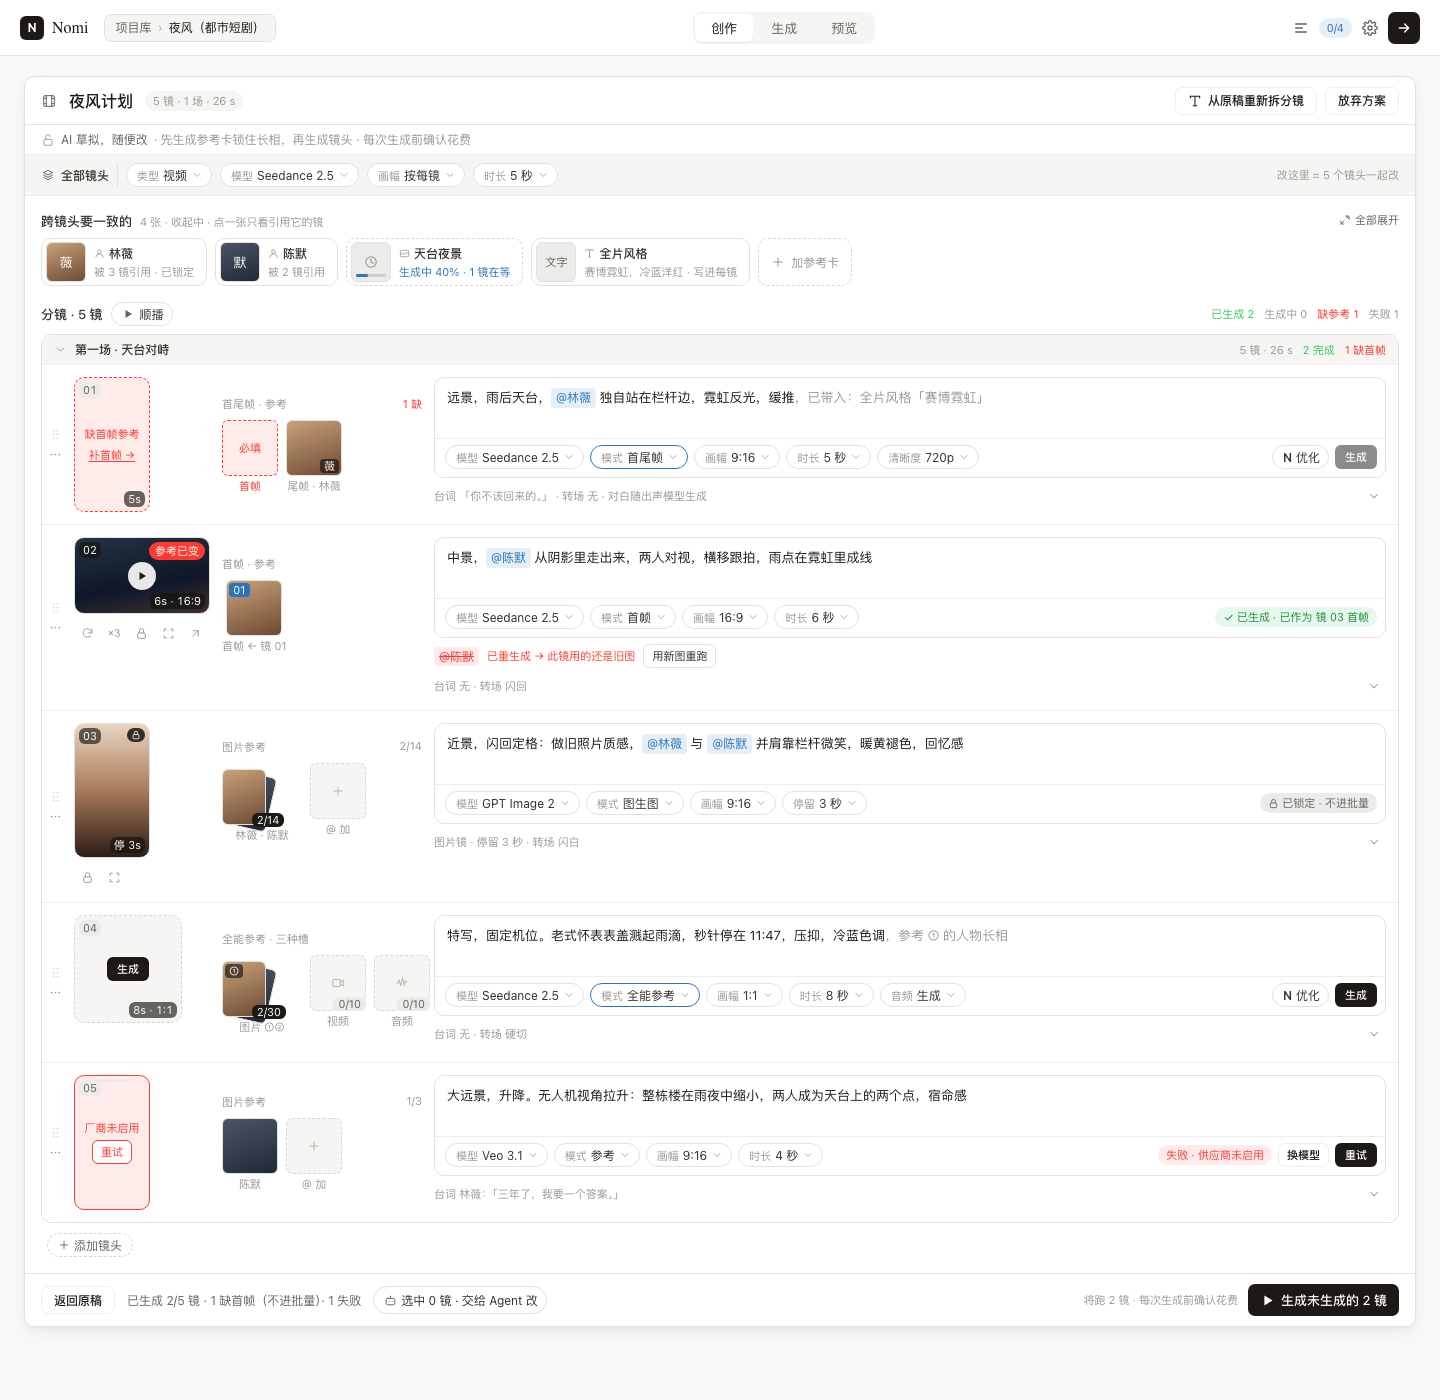
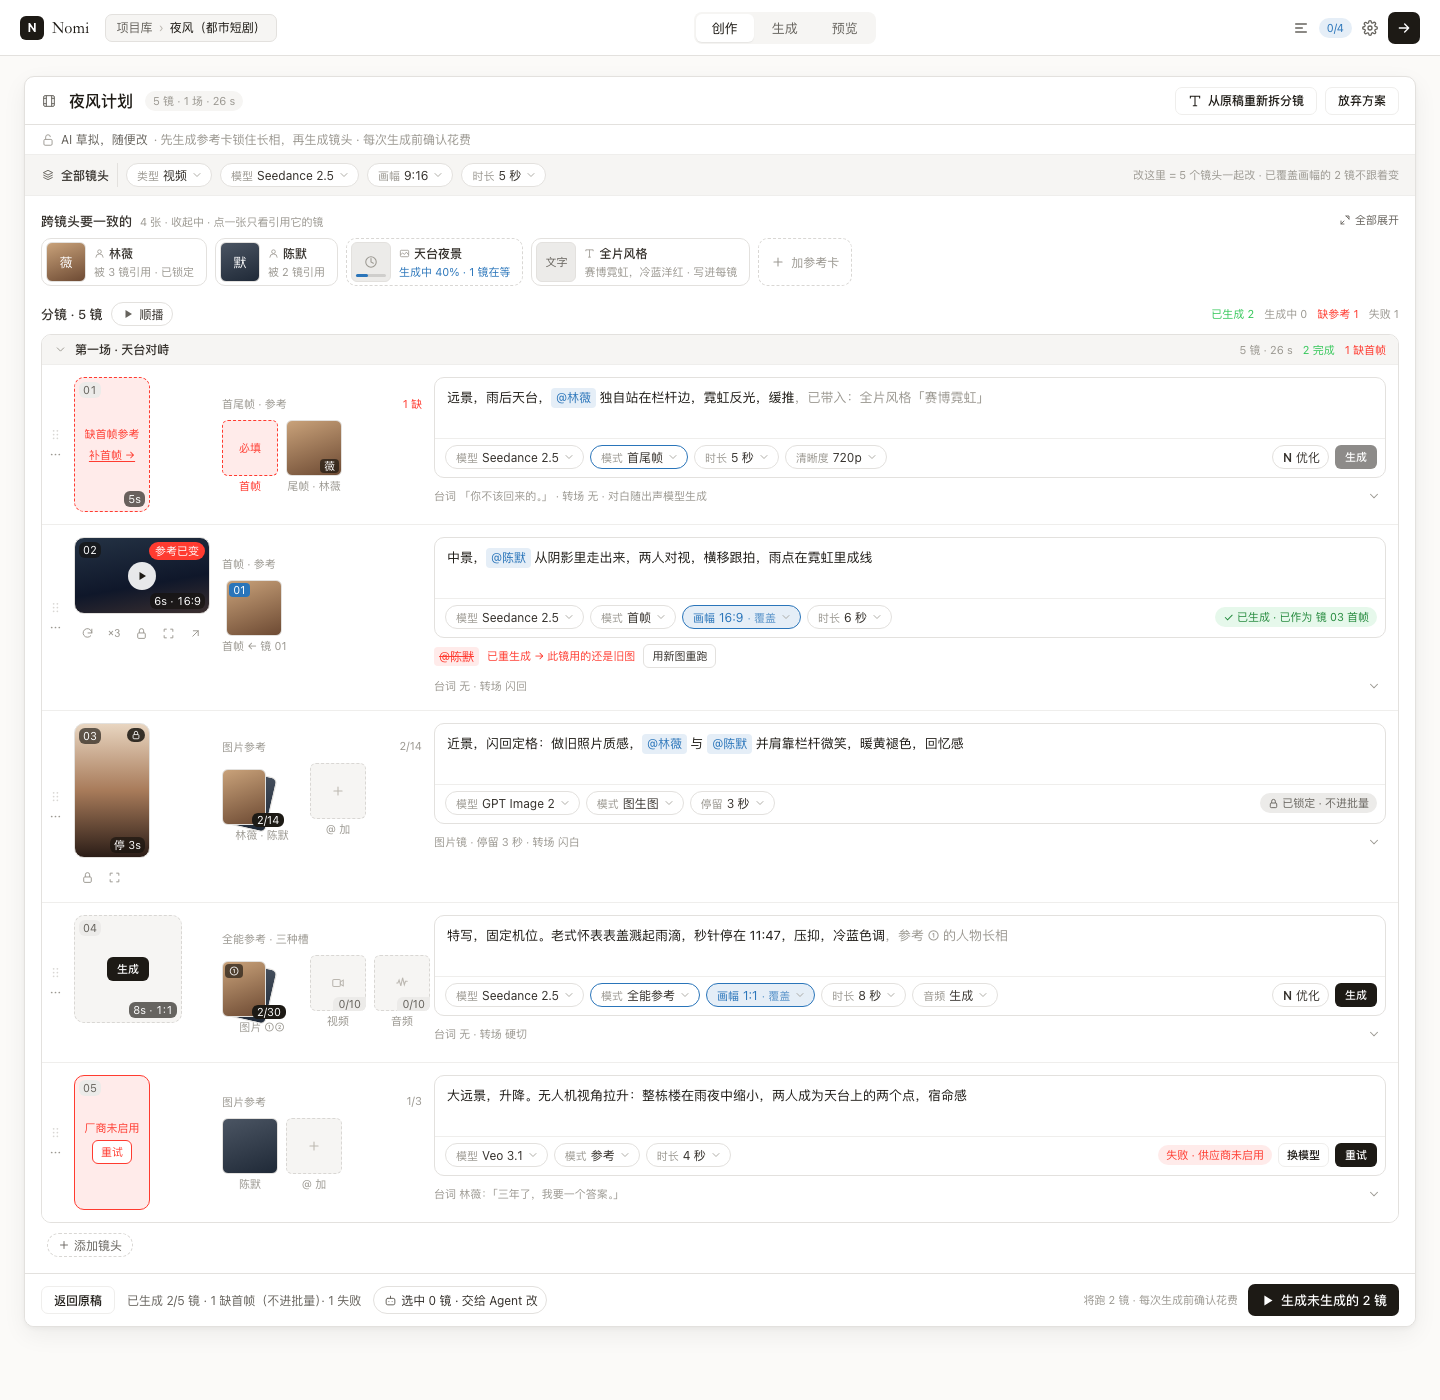
docs(design): 分镜表 v6 合同修订 2 — 并入外部调研后的 8 条拍板
用户在外部近邻调研（LTX Studio / Boords / Runway / Krea / Kling / Higgsfield）
后追加 8 条拍板，本次并进设计合同，每条都写清「底层逻辑 / 会发生什么 /
用户体验是什么」并注明依据的近邻：

- §2.4.1 画幅改成项目级默认 + 行级覆盖，只有覆盖了的行才显示画幅胶囊
- §2.8 拆分镜时按剧本自动把角色/场景绑进该镜参考槽，绑定与手填无差别、可改
- §2.9 结果回同一行分两段：画面格只显示已采用版，重生成只往「历史变体」
  抽屉追加，显式点「采用」才替换
- §2.10 行级「本次跳过」（不删除、跑完自清，与 locked 正交）+ 每个产出
  自动拿 @tag 可被后续镜引用
- §4.4 槽引用锚点时携带名字/描述/要忽略的特征，槽不是图片容器是带说明的引用
- §2.3 底栏控件随「模型 × 模式」运行时 derive，不出灰控件
- §8.1 单表 vs 多视图的已知取舍写进不做项，并写死重新评估的判据
- §3.3/§7.2/§9 状态表、data-storyboard-* 挂点与验收/走查项同步补齐

新增 §⑩ 调研依据表：12 条近邻结论各带 URL 与 2026-09-05 抓取日期，并按
【实抓】/【搜索摘录】分级标注可信度（部分官方帮助站对匿名抓取 403，逐字
引文在实现前需人工复核）。

样张 Main.html 与 preview-Main.png 按 §2.4.1 重画：批量条画幅改成整片默认
9:16；行 01/03/05 底栏删掉画幅胶囊；行 02(16:9)/04(1:1) 保留并加「· 覆盖」
标记与 data-storyboard-aspect-override 挂点。保留两行覆盖态而非一行，是因为
§9.1 有一条对账项要求三种画幅同屏验左对齐。顺手修掉 §2.4 里一个坏字符。

docs-only，未改动任何生产代码。

diff --git a/docs/design/mockups/2026-09-05-storyboard-table-v6/Main.html b/docs/design/mockups/2026-09-05-storyboard-table-v6/Main.html
@@ -13,6 +13,9 @@ svg{flex:0 0 auto}
 .pill .k{font-size:11px;line-height:1;color:#9b9891}
 .pill .v{font-size:12px;color:#36322d}
 .pill.on{border-color:#2a75ba}
+.pill.ovr{border-color:#2a75ba;background:#e5eef7}
+.pill.ovr .k,.pill.ovr .v{color:#2a75ba}
+.pill.ovr .ov{font-size:11px;line-height:1;color:#2a75ba;opacity:.75}
 .tag{display:inline-flex;align-items:center;gap:3px;height:20px;padding:0 8px;border-radius:999px;background:#e5eef7;color:#2a75ba;font-size:11px;white-space:nowrap}
 .tag.g{background:rgba(52,199,89,.12);color:#248a3d}
 .tag.r{background:rgba(255,59,48,.1);color:#ff3b30}
@@ -101,9 +104,9 @@ svg{flex:0 0 auto}
       <span style="width:1px;align-self:stretch;background:#e3e1de;"></span>
       <span class="pill"><span class="k">类型</span><span class="v">视频</span><svg width="12" height="12" viewBox="0 0 24 24" fill="none" stroke="#9b9891" stroke-width="1.6" stroke-linecap="round"><path d="M6 9l6 6 6-6"/></svg></span>
       <span class="pill"><span class="k">模型</span><span class="v">Seedance 2.5</span><svg width="12" height="12" viewBox="0 0 24 24" fill="none" stroke="#9b9891" stroke-width="1.6" stroke-linecap="round"><path d="M6 9l6 6 6-6"/></svg></span>
-      <span class="pill"><span class="k">画幅</span><span class="v">按每镜</span><svg width="12" height="12" viewBox="0 0 24 24" fill="none" stroke="#9b9891" stroke-width="1.6" stroke-linecap="round"><path d="M6 9l6 6 6-6"/></svg></span>
+      <span class="pill" data-storyboard-aspect-default title="整片默认画幅，行级可覆盖"><span class="k">画幅</span><span class="v">9:16</span><svg width="12" height="12" viewBox="0 0 24 24" fill="none" stroke="#9b9891" stroke-width="1.6" stroke-linecap="round"><path d="M6 9l6 6 6-6"/></svg></span>
       <span class="pill"><span class="k">时长</span><span class="v">5 秒</span><svg width="12" height="12" viewBox="0 0 24 24" fill="none" stroke="#9b9891" stroke-width="1.6" stroke-linecap="round"><path d="M6 9l6 6 6-6"/></svg></span>
-      <span class="sub" style="margin-left:auto;">改这里 = 5 个镜头一起改</span>
+      <span class="sub" style="margin-left:auto;">改这里 = 5 个镜头一起改 · 已覆盖画幅的 2 镜不跟着变</span>
     </div>
 
     <div style="padding:16px;display:flex;flex-direction:column;gap:16px;">
@@ -150,7 +153,7 @@ svg{flex:0 0 auto}
                 <div class="bar">
                   <span class="pill"><span class="k">模型</span><span class="v">Seedance 2.5</span><svg width="12" height="12" viewBox="0 0 24 24" fill="none" stroke="#9b9891" stroke-width="1.6" stroke-linecap="round"><path d="M6 9l6 6 6-6"/></svg></span>
                   <span class="pill on"><span class="k">模式</span><span class="v">首尾帧</span><svg width="12" height="12" viewBox="0 0 24 24" fill="none" stroke="#9b9891" stroke-width="1.6" stroke-linecap="round"><path d="M6 9l6 6 6-6"/></svg></span>
-                  <span class="pill"><span class="k">画幅</span><span class="v">9:16</span><svg width="12" height="12" viewBox="0 0 24 24" fill="none" stroke="#9b9891" stroke-width="1.6" stroke-linecap="round"><path d="M6 9l6 6 6-6"/></svg></span>
+                  
                   <span class="pill"><span class="k">时长</span><span class="v">5 秒</span><svg width="12" height="12" viewBox="0 0 24 24" fill="none" stroke="#9b9891" stroke-width="1.6" stroke-linecap="round"><path d="M6 9l6 6 6-6"/></svg></span>
                   <span class="pill"><span class="k">清晰度</span><span class="v">720p</span><svg width="12" height="12" viewBox="0 0 24 24" fill="none" stroke="#9b9891" stroke-width="1.6" stroke-linecap="round"><path d="M6 9l6 6 6-6"/></svg></span>
                   <span class="sp"></span>
@@ -181,7 +184,7 @@ svg{flex:0 0 auto}
                 <div class="bar">
                   <span class="pill"><span class="k">模型</span><span class="v">Seedance 2.5</span><svg width="12" height="12" viewBox="0 0 24 24" fill="none" stroke="#9b9891" stroke-width="1.6" stroke-linecap="round"><path d="M6 9l6 6 6-6"/></svg></span>
                   <span class="pill"><span class="k">模式</span><span class="v">首帧</span><svg width="12" height="12" viewBox="0 0 24 24" fill="none" stroke="#9b9891" stroke-width="1.6" stroke-linecap="round"><path d="M6 9l6 6 6-6"/></svg></span>
-                  <span class="pill"><span class="k">画幅</span><span class="v">16:9</span><svg width="12" height="12" viewBox="0 0 24 24" fill="none" stroke="#9b9891" stroke-width="1.6" stroke-linecap="round"><path d="M6 9l6 6 6-6"/></svg></span>
+                  <span class="pill ovr" data-storyboard-aspect-override title="本镜覆盖了整片默认画幅 9:16"><span class="k">画幅</span><span class="v">16:9</span><span class="ov">· 覆盖</span><svg width="12" height="12" viewBox="0 0 24 24" fill="none" stroke="#9b9891" stroke-width="1.6" stroke-linecap="round"><path d="M6 9l6 6 6-6"/></svg></span>
                   <span class="pill"><span class="k">时长</span><span class="v">6 秒</span><svg width="12" height="12" viewBox="0 0 24 24" fill="none" stroke="#9b9891" stroke-width="1.6" stroke-linecap="round"><path d="M6 9l6 6 6-6"/></svg></span>
                   <span class="sp"></span>
                   <span class="tag g"><svg width="11" height="11" viewBox="0 0 24 24" fill="none" stroke="currentColor" stroke-width="2.2" stroke-linecap="round"><path d="M5 12l5 5L20 7"/></svg>已生成 · 已作为 镜 03 首帧</span>
@@ -212,7 +215,7 @@ svg{flex:0 0 auto}
                 <div class="bar">
                   <span class="pill"><span class="k">模型</span><span class="v">GPT Image 2</span><svg width="12" height="12" viewBox="0 0 24 24" fill="none" stroke="#9b9891" stroke-width="1.6" stroke-linecap="round"><path d="M6 9l6 6 6-6"/></svg></span>
                   <span class="pill"><span class="k">模式</span><span class="v">图生图</span><svg width="12" height="12" viewBox="0 0 24 24" fill="none" stroke="#9b9891" stroke-width="1.6" stroke-linecap="round"><path d="M6 9l6 6 6-6"/></svg></span>
-                  <span class="pill"><span class="k">画幅</span><span class="v">9:16</span><svg width="12" height="12" viewBox="0 0 24 24" fill="none" stroke="#9b9891" stroke-width="1.6" stroke-linecap="round"><path d="M6 9l6 6 6-6"/></svg></span>
+                  
                   <span class="pill"><span class="k">停留</span><span class="v">3 秒</span><svg width="12" height="12" viewBox="0 0 24 24" fill="none" stroke="#9b9891" stroke-width="1.6" stroke-linecap="round"><path d="M6 9l6 6 6-6"/></svg></span>
                   <span class="sp"></span>
                   <span class="tag n"><svg width="11" height="11" viewBox="0 0 24 24" fill="none" stroke="currentColor" stroke-width="2"><rect x="5" y="11" width="14" height="10" rx="2"/><path d="M8 11V7a4 4 0 0 1 8 0v4"/></svg>已锁定 · 不进批量</span>
@@ -240,7 +243,7 @@ svg{flex:0 0 auto}
                 <div class="bar">
                   <span class="pill"><span class="k">模型</span><span class="v">Seedance 2.5</span><svg width="12" height="12" viewBox="0 0 24 24" fill="none" stroke="#9b9891" stroke-width="1.6" stroke-linecap="round"><path d="M6 9l6 6 6-6"/></svg></span>
                   <span class="pill on"><span class="k">模式</span><span class="v">全能参考</span><svg width="12" height="12" viewBox="0 0 24 24" fill="none" stroke="#9b9891" stroke-width="1.6" stroke-linecap="round"><path d="M6 9l6 6 6-6"/></svg></span>
-                  <span class="pill"><span class="k">画幅</span><span class="v">1:1</span><svg width="12" height="12" viewBox="0 0 24 24" fill="none" stroke="#9b9891" stroke-width="1.6" stroke-linecap="round"><path d="M6 9l6 6 6-6"/></svg></span>
+                  <span class="pill ovr" data-storyboard-aspect-override title="本镜覆盖了整片默认画幅 9:16"><span class="k">画幅</span><span class="v">1:1</span><span class="ov">· 覆盖</span><svg width="12" height="12" viewBox="0 0 24 24" fill="none" stroke="#9b9891" stroke-width="1.6" stroke-linecap="round"><path d="M6 9l6 6 6-6"/></svg></span>
                   <span class="pill"><span class="k">时长</span><span class="v">8 秒</span><svg width="12" height="12" viewBox="0 0 24 24" fill="none" stroke="#9b9891" stroke-width="1.6" stroke-linecap="round"><path d="M6 9l6 6 6-6"/></svg></span>
                   <span class="pill"><span class="k">音频</span><span class="v">生成</span><svg width="12" height="12" viewBox="0 0 24 24" fill="none" stroke="#9b9891" stroke-width="1.6" stroke-linecap="round"><path d="M6 9l6 6 6-6"/></svg></span>
                   <span class="sp"></span>
@@ -269,7 +272,7 @@ svg{flex:0 0 auto}
                 <div class="bar">
                   <span class="pill"><span class="k">模型</span><span class="v">Veo 3.1</span><svg width="12" height="12" viewBox="0 0 24 24" fill="none" stroke="#9b9891" stroke-width="1.6" stroke-linecap="round"><path d="M6 9l6 6 6-6"/></svg></span>
                   <span class="pill"><span class="k">模式</span><span class="v">参考</span><svg width="12" height="12" viewBox="0 0 24 24" fill="none" stroke="#9b9891" stroke-width="1.6" stroke-linecap="round"><path d="M6 9l6 6 6-6"/></svg></span>
-                  <span class="pill"><span class="k">画幅</span><span class="v">9:16</span><svg width="12" height="12" viewBox="0 0 24 24" fill="none" stroke="#9b9891" stroke-width="1.6" stroke-linecap="round"><path d="M6 9l6 6 6-6"/></svg></span>
+                  
                   <span class="pill"><span class="k">时长</span><span class="v">4 秒</span><svg width="12" height="12" viewBox="0 0 24 24" fill="none" stroke="#9b9891" stroke-width="1.6" stroke-linecap="round"><path d="M6 9l6 6 6-6"/></svg></span>
                   <span class="sp"></span>
                   <span class="tag r">失败 · 供应商未启用</span>

diff --git a/docs/design/mockups/2026-09-05-storyboard-table-v6/README.md b/docs/design/mockups/2026-09-05-storyboard-table-v6/README.md
@@ -9,14 +9,28 @@
 
 | 文件 | 是什么 | 对应渲染图 |
 |---|---|---|
-| `Main.html` | **全表整页**：顶栏 + 编辑器外壳 + 批量条 + 锚区收起态 + 5 行分镜（覆盖编辑态/完成态/失败态/首尾帧模式/全能参考模式）+ footer | `preview-Main.png`、`preview-Main-fan.png`（参考叠放扇形特写） |
+| `Main.html` | **全表整页**：顶栏 + 编辑器外壳 + 批量条 + 锚区收起态 + 5 行分镜（覆盖编辑态/完成态/失败态/首尾帧模式/全能参考模式）+ footer。**修订 2 已更新画幅表达**（见下） | `preview-Main.png`（修订 2 已重截）、`preview-Main-fan.png`（参考叠放扇形特写，未涉及本次改动，未重截） |
 | `AnchorsExpanded.html` | **锚区展开态**：4 张锚（已锁定/生成中/空/文字）用和镜头行完全同一套解剖（画面格 / 参考列 / 提示词框+底栏）直接生成 | `preview-AnchorsExpanded.png` |
 | `SlotMatrix.html` | **参考列随模型 × 模式变化**：Seedance 2.5 的 4 个模式 + Veo 3.1「帧」+ Nano Banana 2「编辑」，共 6 行真实档案声明 → 参考列长什么样 | `preview-SlotMatrix.png` |
 | `RowOps.html` | **镜头的增删改查**：行间插入线、⋯ 菜单、拖拽落点线、多选浮条（纸白胶囊）、键盘图例 | `preview-RowOps.png`、`preview-RowOps-bar.png`（多选浮条特写） |
 
+## 修订 2（2026-09-05）：画幅改成「项目级默认 + 行级覆盖」
+
+用户在外部近邻调研（LTX Studio / Boords / Higgsfield / Kling，出处见设计合同 §⑩）后拍板：**画幅是项目级设置，行级可覆盖，只有覆盖了的行才在底栏显示画幅胶囊**（设计合同 §2.4.1）。`Main.html` 按此重画：
+
+| 位置 | 改成什么 |
+|---|---|
+| 批量条「画幅」胶囊 | 从"按每镜"改成整片默认值 `9:16`，挂 `data-storyboard-aspect-default`；右侧提示补一句"已覆盖画幅的 2 镜不跟着变" |
+| 行 01 / 03 / 05（用默认 9:16） | 底栏**删掉**画幅胶囊——不是置灰、不是显示"继承"，是不存在 |
+| 行 02（16:9）/ 行 04（1:1） | 保留胶囊，改成蓝色 `.pill.ovr` 并加「· 覆盖」小字，挂 `data-storyboard-aspect-override` |
+
+**为什么画了两行覆盖态而不是一行**：设计合同 §9.1 有一条对账项要求"9:16 / 16:9 / 1:1 三种画幅混排时画面格左边缘仍对齐"。只留一行覆盖就只剩两种画幅，样张证明不了这条几何规则。两行覆盖同样完整示范了覆盖态与默认态的对比，不影响规则表达。
+
+修订 2 的另外 7 条拍板（拆分镜自动绑锚、历史变体抽屉、本次跳过、产出 @tag、槽的三段声明、底栏 derive、单表 vs 多视图取舍）**只落在设计合同的文字里，本次未画进样张**——它们要么是交互时序（抽屉、跳过后的计数变化），要么是数据形态（槽携带描述与忽略项），静态样张表达不动，留给实现阶段的真机走查（设计合同 §9.2 的 J6–J9）验收。
+
 ## 拍板日期与来源
 
-- **2026-09-05**，用户在讨论中对「方向 A」拍板，并追加了参考列两条规则（一个槽一个格 + 固定单行三格 200px）、参考叠放扇形手法、锚区两态细节、多选浮条样式核对。原始画板见
+- **2026-09-05**，用户在讨论中对「方向 A」拍板，并追加了参考列两条规则（一个槽一个格 + 固定单行三格 200px）、参考叠放扇形手法、锚区两态细节、多选浮条样式核对。**同日修订 2** 追加 8 条拍板（见上节与设计合同 §⑩ 的近邻出处表）。原始画板见
   `canvas.json`（会话内产物，未收进仓库；关键文字已转写进设计合同 §2/§4/§9）。
 - 取证与约束全文：分镜表 v6 设计简报（会话内 `brief.md` + `user-constraints-addendum.md` + `token-sheet.md`，关键内容已摘录进设计合同）。
 - 现役实现对照的 file:line 与旧分镜表 15 条功能对账见设计合同 §5。
